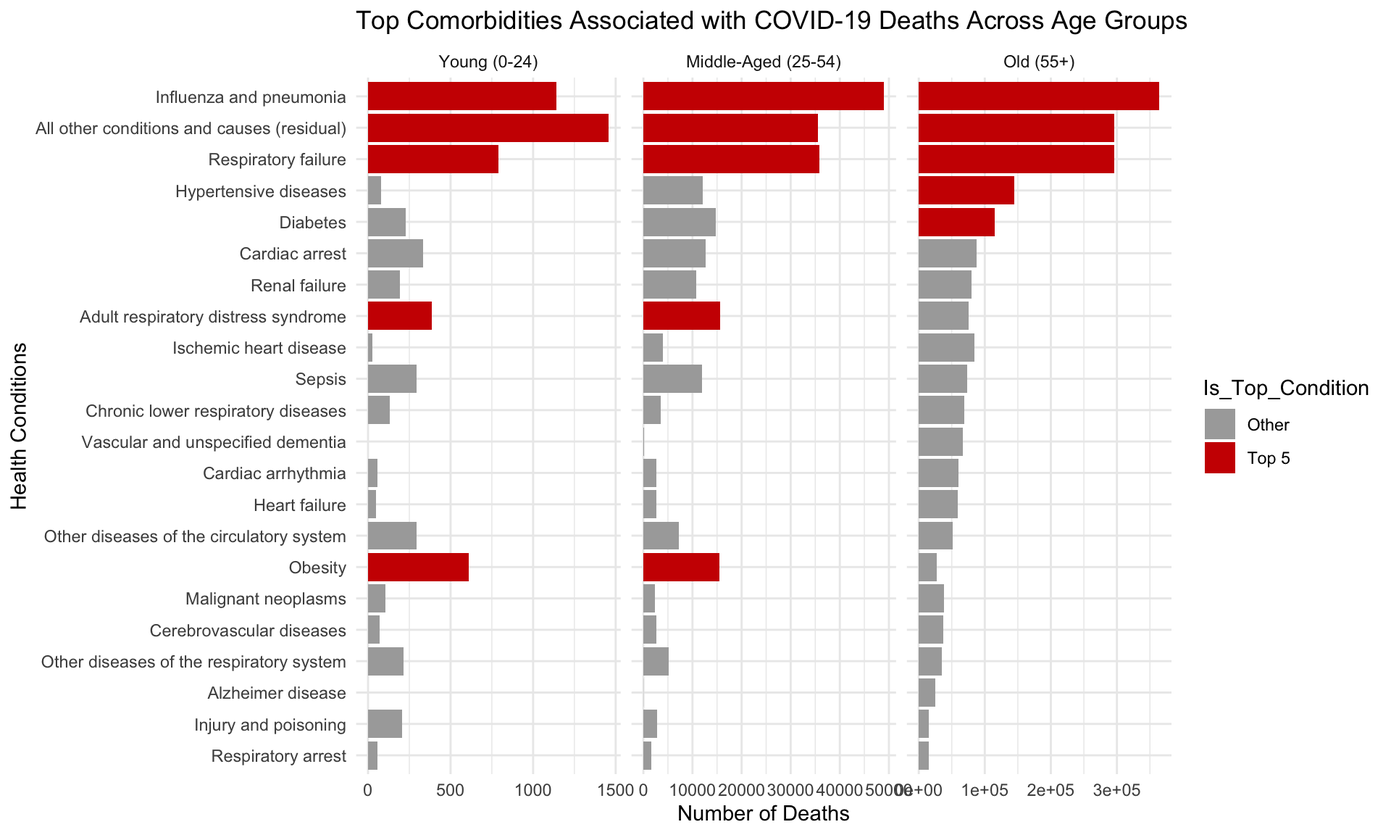
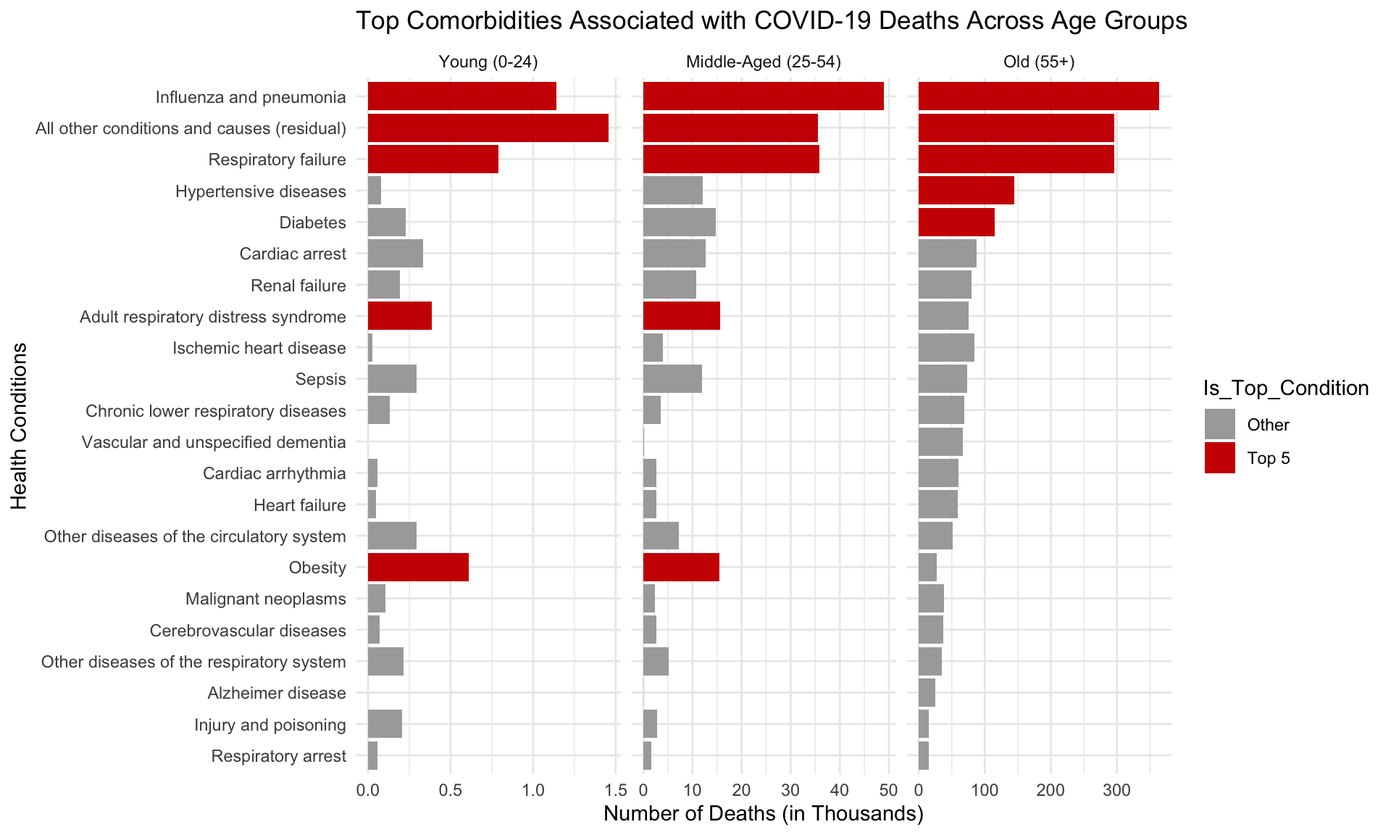
asdf

diff --git a/docs/results.html b/docs/results.html
@@ -459,16 +459,16 @@ pre > code.sourceCode > span > a:first-child::before { text-decoration: underlin
 <span id="cb5-44"><a href="#cb5-44" aria-hidden="true" tabindex="-1"></a>fig_20</span></code><button title="Copy to Clipboard" class="code-copy-button"><i class="bi"></i></button></pre></div>
 </details>
 <div class="cell-output-display">
-<div class="plotly html-widget html-fill-item-overflow-hidden html-fill-item" id="htmlwidget-2ba007ea91bc8748deae" style="width:100%;height:464px;"></div>
-<script type="application/json" data-for="htmlwidget-2ba007ea91bc8748deae">{"x":{"visdat":{"803a2c4fc2ec":["function () ","plotlyVisDat"]},"cur_data":"803a2c4fc2ec","attrs":{"803a2c4fc2ec":{"locationmode":"USA-states","alpha_stroke":1,"sizes":[10,100],"spans":[1,20],"z":{},"locations":{},"text":{},"color":{},"colors":"Purples","zmin":20,"zmax":230,"inherit":true}},"layout":{"margin":{"b":5,"l":5,"t":40,"r":5,"pad":4},"mapType":"geo","scene":{"zaxis":{"title":"death_rate"}},"geo":{"domain":{"x":[0,1],"y":[0,1]},"scope":"usa","projection":{"type":"albers usa"},"showlakes":true,"lakecolor":"rgba(255,255,255,1)"},"hovermode":"closest","showlegend":false,"legend":{"yanchor":"top","y":0.5},"title":"2020 US COVID-19 Death Rate","autosize":true},"source":"A","config":{"modeBarButtonsToAdd":["hoverclosest","hovercompare"],"showSendToCloud":false},"data":[{"colorbar":{"title":"death rate <br> (per 100,000 population)","ticklen":2,"len":0.5,"lenmode":"fraction","y":1,"yanchor":"top"},"colorscale":[["0","rgba(252,251,253,1)"],["0.0416666666666667","rgba(248,246,250,1)"],["0.0833333333333333","rgba(243,242,248,1)"],["0.125","rgba(239,237,245,1)"],["0.166666666666667","rgba(232,231,242,1)"],["0.208333333333333","rgba(225,224,238,1)"],["0.25","rgba(218,218,235,1)"],["0.291666666666667","rgba(208,208,230,1)"],["0.333333333333333","rgba(198,199,225,1)"],["0.375","rgba(188,189,220,1)"],["0.416666666666667","rgba(178,177,213,1)"],["0.458333333333333","rgba(168,166,207,1)"],["0.5","rgba(158,154,200,1)"],["0.541666666666667","rgba(148,144,195,1)"],["0.583333333333333","rgba(138,135,191,1)"],["0.625","rgba(128,125,186,1)"],["0.666666666666667","rgba(121,110,178,1)"],["0.708333333333333","rgba(114,96,171,1)"],["0.75","rgba(106,81,163,1)"],["0.791666666666667","rgba(99,67,156,1)"],["0.833333333333333","rgba(92,54,150,1)"],["0.875","rgba(84,39,143,1)"],["0.916666666666667","rgba(77,28,137,1)"],["0.958333333333333","rgba(70,16,131,1)"],["1","rgba(63,0,125,1)"]],"showscale":true,"locationmode":"USA-states","z":[133.30000000000001,35.299999999999997,129.80000000000001,133.59999999999999,84.799999999999997,87.700000000000003,174.90000000000001,110,150,101.09999999999999,97.299999999999997,25.399999999999999,83.700000000000003,130.80000000000001,144,149.5,119.09999999999999,102.59999999999999,151.90000000000001,34.100000000000001,109,145.59999999999999,122.09999999999999,102.2,173.09999999999999,131,116.5,114.8,113.09999999999999,60.899999999999999,195.69999999999999,135.90000000000001,191,84.099999999999994,194,128,132.40000000000001,37.899999999999999,141.69999999999999,175.09999999999999,111,193.5,114.5,114.7,50.399999999999999,23.300000000000001,71.200000000000003,47.899999999999999,87.400000000000006,106.5,79.5],"locations":["AL","AK","AZ","AR","CA","CO","CT","DE","DC","FL","GA","HI","ID","IL","IN","IA","KS","KY","LA","ME","MD","MA","MI","MN","MS","MO","MT","NE","NV","NH","NJ","NM","NY","NC","ND","OH","OK","OR","PA","RI","SC","SD","TN","TX","UT","VT","VA","WA","WV","WI","WY"],"text":["Alabama <br> Death Rate: 133.3 <br> Death Count: 6706","Alaska <br> Death Rate: 35.3 <br> Death Count: 259","Arizona <br> Death Rate: 129.8 <br> Death Count: 9321","Arkansas <br> Death Rate: 133.6 <br> Death Count: 4028","California <br> Death Rate: 84.8 <br> Death Count: 33485","Colorado <br> Death Rate: 87.7 <br> Death Count: 5073","Connecticut <br> Death Rate: 174.9 <br> Death Count: 6292","Delaware <br> Death Rate: 110 <br> Death Count: 1091","District of Columbia <br> Death Rate: 150 <br> Death Count: 1006","Florida <br> Death Rate: 101.1 <br> Death Count: 21827","Georgia <br> Death Rate: 97.3 <br> Death Count: 10435","Hawaii <br> Death Rate: 25.4 <br> Death Count: 369","Idaho <br> Death Rate: 83.7 <br> Death Count: 1547","Illinois <br> Death Rate: 130.8 <br> Death Count: 16721","Indiana <br> Death Rate: 144 <br> Death Count: 9775","Iowa <br> Death Rate: 149.5 <br> Death Count: 4770","Kansas <br> Death Rate: 119.1 <br> Death Count: 3500","Kentucky <br> Death Rate: 102.6 <br> Death Count: 4623","Louisiana <br> Death Rate: 151.9 <br> Death Count: 7066","Maine <br> Death Rate: 34.1 <br> Death Count: 465","Maryland <br> Death Rate: 109 <br> Death Count: 6729","Massachusetts <br> Death Rate: 145.6 <br> Death Count: 10184","Michigan <br> Death Rate: 122.1 <br> Death Count: 12290","Minnesota <br> Death Rate: 102.2 <br> Death Count: 5833","Mississippi <br> Death Rate: 173.1 <br> Death Count: 5120","Missouri <br> Death Rate: 131 <br> Death Count: 8059","Montana <br> Death Rate: 116.5 <br> Death Count: 1266","Nebraska <br> Death Rate: 114.8 <br> Death Count: 2254","Nevada <br> Death Rate: 113.1 <br> Death Count: 3523","New Hampshire <br> Death Rate: 60.9 <br> Death Count: 839","New Jersey <br> Death Rate: 195.7 <br> Death Count: 18143","New Mexico <br> Death Rate: 135.9 <br> Death Count: 2879","New York <br> Death Rate: 191 <br> Death Count: 38402","North Carolina <br> Death Rate: 84.1 <br> Death Count: 8784","North Dakota <br> Death Rate: 194 <br> Death Count: 1512","Ohio <br> Death Rate: 128 <br> Death Count: 15097","Oklahoma <br> Death Rate: 132.4 <br> Death Count: 5248","Oregon <br> Death Rate: 37.9 <br> Death Count: 1608","Pennsylvania <br> Death Rate: 141.7 <br> Death Count: 18407","Rhode Island <br> Death Rate: 175.1 <br> Death Count: 1920","South Carolina <br> Death Rate: 111 <br> Death Count: 5697","South Dakota <br> Death Rate: 193.5 <br> Death Count: 1718","Tennessee <br> Death Rate: 114.5 <br> Death Count: 7927","Texas <br> Death Rate: 114.7 <br> Death Count: 33535","Utah <br> Death Rate: 50.4 <br> Death Count: 1656","Vermont <br> Death Rate: 23.3 <br> Death Count: 150","Virginia <br> Death Rate: 71.2 <br> Death Count: 6152","Washington <br> Death Rate: 47.9 <br> Death Count: 3701","West Virginia <br> Death Rate: 87.4 <br> Death Count: 1565","Wisconsin <br> Death Rate: 106.5 <br> Death Count: 6282","Wyoming <br> Death Rate: 79.5 <br> Death Count: 459"],"zmin":20,"zmax":230,"type":"choropleth","marker":{"line":{"colorbar":{"title":"","ticklen":2},"cmin":23.300000000000001,"cmax":195.69999999999999,"colorscale":[["0","rgba(252,251,253,1)"],["0.0416666666666667","rgba(248,246,250,1)"],["0.0833333333333333","rgba(243,242,248,1)"],["0.125","rgba(239,237,245,1)"],["0.166666666666667","rgba(232,231,242,1)"],["0.208333333333333","rgba(225,224,238,1)"],["0.25","rgba(218,218,235,1)"],["0.291666666666667","rgba(208,208,230,1)"],["0.333333333333333","rgba(198,199,225,1)"],["0.375","rgba(188,189,220,1)"],["0.416666666666667","rgba(178,177,213,1)"],["0.458333333333333","rgba(168,166,207,1)"],["0.5","rgba(158,154,200,1)"],["0.541666666666667","rgba(148,144,195,1)"],["0.583333333333333","rgba(138,135,191,1)"],["0.625","rgba(128,125,186,1)"],["0.666666666666667","rgba(121,110,178,1)"],["0.708333333333333","rgba(114,96,171,1)"],["0.75","rgba(106,81,163,1)"],["0.791666666666667","rgba(99,67,156,1)"],["0.833333333333333","rgba(92,54,150,1)"],["0.875","rgba(84,39,143,1)"],["0.916666666666667","rgba(77,28,137,1)"],["0.958333333333333","rgba(70,16,131,1)"],["1","rgba(63,0,125,1)"]],"showscale":false,"color":[133.30000000000001,35.299999999999997,129.80000000000001,133.59999999999999,84.799999999999997,87.700000000000003,174.90000000000001,110,150,101.09999999999999,97.299999999999997,25.399999999999999,83.700000000000003,130.80000000000001,144,149.5,119.09999999999999,102.59999999999999,151.90000000000001,34.100000000000001,109,145.59999999999999,122.09999999999999,102.2,173.09999999999999,131,116.5,114.8,113.09999999999999,60.899999999999999,195.69999999999999,135.90000000000001,191,84.099999999999994,194,128,132.40000000000001,37.899999999999999,141.69999999999999,175.09999999999999,111,193.5,114.5,114.7,50.399999999999999,23.300000000000001,71.200000000000003,47.899999999999999,87.400000000000006,106.5,79.5]}},"geo":"geo","frame":null}],"highlight":{"on":"plotly_click","persistent":false,"dynamic":false,"selectize":false,"opacityDim":0.20000000000000001,"selected":{"opacity":1},"debounce":0},"shinyEvents":["plotly_hover","plotly_click","plotly_selected","plotly_relayout","plotly_brushed","plotly_brushing","plotly_clickannotation","plotly_doubleclick","plotly_deselect","plotly_afterplot","plotly_sunburstclick"],"base_url":"https://plot.ly"},"evals":[],"jsHooks":[]}</script>
+<div class="plotly html-widget html-fill-item-overflow-hidden html-fill-item" id="htmlwidget-a630166b2041cebd75d2" style="width:100%;height:464px;"></div>
+<script type="application/json" data-for="htmlwidget-a630166b2041cebd75d2">{"x":{"visdat":{"8f0f272b129a":["function () ","plotlyVisDat"]},"cur_data":"8f0f272b129a","attrs":{"8f0f272b129a":{"locationmode":"USA-states","alpha_stroke":1,"sizes":[10,100],"spans":[1,20],"z":{},"locations":{},"text":{},"color":{},"colors":"Purples","zmin":20,"zmax":230,"inherit":true}},"layout":{"margin":{"b":5,"l":5,"t":40,"r":5,"pad":4},"mapType":"geo","scene":{"zaxis":{"title":"death_rate"}},"geo":{"domain":{"x":[0,1],"y":[0,1]},"scope":"usa","projection":{"type":"albers usa"},"showlakes":true,"lakecolor":"rgba(255,255,255,1)"},"hovermode":"closest","showlegend":false,"legend":{"yanchor":"top","y":0.5},"title":"2020 US COVID-19 Death Rate","autosize":true},"source":"A","config":{"modeBarButtonsToAdd":["hoverclosest","hovercompare"],"showSendToCloud":false},"data":[{"colorbar":{"title":"death rate <br> (per 100,000 population)","ticklen":2,"len":0.5,"lenmode":"fraction","y":1,"yanchor":"top"},"colorscale":[["0","rgba(252,251,253,1)"],["0.0416666666666667","rgba(248,246,250,1)"],["0.0833333333333333","rgba(243,242,248,1)"],["0.125","rgba(239,237,245,1)"],["0.166666666666667","rgba(232,231,242,1)"],["0.208333333333333","rgba(225,224,238,1)"],["0.25","rgba(218,218,235,1)"],["0.291666666666667","rgba(208,208,230,1)"],["0.333333333333333","rgba(198,199,225,1)"],["0.375","rgba(188,189,220,1)"],["0.416666666666667","rgba(178,177,213,1)"],["0.458333333333333","rgba(168,166,207,1)"],["0.5","rgba(158,154,200,1)"],["0.541666666666667","rgba(148,144,195,1)"],["0.583333333333333","rgba(138,135,191,1)"],["0.625","rgba(128,125,186,1)"],["0.666666666666667","rgba(121,110,178,1)"],["0.708333333333333","rgba(114,96,171,1)"],["0.75","rgba(106,81,163,1)"],["0.791666666666667","rgba(99,67,156,1)"],["0.833333333333333","rgba(92,54,150,1)"],["0.875","rgba(84,39,143,1)"],["0.916666666666667","rgba(77,28,137,1)"],["0.958333333333333","rgba(70,16,131,1)"],["1","rgba(63,0,125,1)"]],"showscale":true,"locationmode":"USA-states","z":[133.30000000000001,35.299999999999997,129.80000000000001,133.59999999999999,84.799999999999997,87.700000000000003,174.90000000000001,110,150,101.09999999999999,97.299999999999997,25.399999999999999,83.700000000000003,130.80000000000001,144,149.5,119.09999999999999,102.59999999999999,151.90000000000001,34.100000000000001,109,145.59999999999999,122.09999999999999,102.2,173.09999999999999,131,116.5,114.8,113.09999999999999,60.899999999999999,195.69999999999999,135.90000000000001,191,84.099999999999994,194,128,132.40000000000001,37.899999999999999,141.69999999999999,175.09999999999999,111,193.5,114.5,114.7,50.399999999999999,23.300000000000001,71.200000000000003,47.899999999999999,87.400000000000006,106.5,79.5],"locations":["AL","AK","AZ","AR","CA","CO","CT","DE","DC","FL","GA","HI","ID","IL","IN","IA","KS","KY","LA","ME","MD","MA","MI","MN","MS","MO","MT","NE","NV","NH","NJ","NM","NY","NC","ND","OH","OK","OR","PA","RI","SC","SD","TN","TX","UT","VT","VA","WA","WV","WI","WY"],"text":["Alabama <br> Death Rate: 133.3 <br> Death Count: 6706","Alaska <br> Death Rate: 35.3 <br> Death Count: 259","Arizona <br> Death Rate: 129.8 <br> Death Count: 9321","Arkansas <br> Death Rate: 133.6 <br> Death Count: 4028","California <br> Death Rate: 84.8 <br> Death Count: 33485","Colorado <br> Death Rate: 87.7 <br> Death Count: 5073","Connecticut <br> Death Rate: 174.9 <br> Death Count: 6292","Delaware <br> Death Rate: 110 <br> Death Count: 1091","District of Columbia <br> Death Rate: 150 <br> Death Count: 1006","Florida <br> Death Rate: 101.1 <br> Death Count: 21827","Georgia <br> Death Rate: 97.3 <br> Death Count: 10435","Hawaii <br> Death Rate: 25.4 <br> Death Count: 369","Idaho <br> Death Rate: 83.7 <br> Death Count: 1547","Illinois <br> Death Rate: 130.8 <br> Death Count: 16721","Indiana <br> Death Rate: 144 <br> Death Count: 9775","Iowa <br> Death Rate: 149.5 <br> Death Count: 4770","Kansas <br> Death Rate: 119.1 <br> Death Count: 3500","Kentucky <br> Death Rate: 102.6 <br> Death Count: 4623","Louisiana <br> Death Rate: 151.9 <br> Death Count: 7066","Maine <br> Death Rate: 34.1 <br> Death Count: 465","Maryland <br> Death Rate: 109 <br> Death Count: 6729","Massachusetts <br> Death Rate: 145.6 <br> Death Count: 10184","Michigan <br> Death Rate: 122.1 <br> Death Count: 12290","Minnesota <br> Death Rate: 102.2 <br> Death Count: 5833","Mississippi <br> Death Rate: 173.1 <br> Death Count: 5120","Missouri <br> Death Rate: 131 <br> Death Count: 8059","Montana <br> Death Rate: 116.5 <br> Death Count: 1266","Nebraska <br> Death Rate: 114.8 <br> Death Count: 2254","Nevada <br> Death Rate: 113.1 <br> Death Count: 3523","New Hampshire <br> Death Rate: 60.9 <br> Death Count: 839","New Jersey <br> Death Rate: 195.7 <br> Death Count: 18143","New Mexico <br> Death Rate: 135.9 <br> Death Count: 2879","New York <br> Death Rate: 191 <br> Death Count: 38402","North Carolina <br> Death Rate: 84.1 <br> Death Count: 8784","North Dakota <br> Death Rate: 194 <br> Death Count: 1512","Ohio <br> Death Rate: 128 <br> Death Count: 15097","Oklahoma <br> Death Rate: 132.4 <br> Death Count: 5248","Oregon <br> Death Rate: 37.9 <br> Death Count: 1608","Pennsylvania <br> Death Rate: 141.7 <br> Death Count: 18407","Rhode Island <br> Death Rate: 175.1 <br> Death Count: 1920","South Carolina <br> Death Rate: 111 <br> Death Count: 5697","South Dakota <br> Death Rate: 193.5 <br> Death Count: 1718","Tennessee <br> Death Rate: 114.5 <br> Death Count: 7927","Texas <br> Death Rate: 114.7 <br> Death Count: 33535","Utah <br> Death Rate: 50.4 <br> Death Count: 1656","Vermont <br> Death Rate: 23.3 <br> Death Count: 150","Virginia <br> Death Rate: 71.2 <br> Death Count: 6152","Washington <br> Death Rate: 47.9 <br> Death Count: 3701","West Virginia <br> Death Rate: 87.4 <br> Death Count: 1565","Wisconsin <br> Death Rate: 106.5 <br> Death Count: 6282","Wyoming <br> Death Rate: 79.5 <br> Death Count: 459"],"zmin":20,"zmax":230,"type":"choropleth","marker":{"line":{"colorbar":{"title":"","ticklen":2},"cmin":23.300000000000001,"cmax":195.69999999999999,"colorscale":[["0","rgba(252,251,253,1)"],["0.0416666666666667","rgba(248,246,250,1)"],["0.0833333333333333","rgba(243,242,248,1)"],["0.125","rgba(239,237,245,1)"],["0.166666666666667","rgba(232,231,242,1)"],["0.208333333333333","rgba(225,224,238,1)"],["0.25","rgba(218,218,235,1)"],["0.291666666666667","rgba(208,208,230,1)"],["0.333333333333333","rgba(198,199,225,1)"],["0.375","rgba(188,189,220,1)"],["0.416666666666667","rgba(178,177,213,1)"],["0.458333333333333","rgba(168,166,207,1)"],["0.5","rgba(158,154,200,1)"],["0.541666666666667","rgba(148,144,195,1)"],["0.583333333333333","rgba(138,135,191,1)"],["0.625","rgba(128,125,186,1)"],["0.666666666666667","rgba(121,110,178,1)"],["0.708333333333333","rgba(114,96,171,1)"],["0.75","rgba(106,81,163,1)"],["0.791666666666667","rgba(99,67,156,1)"],["0.833333333333333","rgba(92,54,150,1)"],["0.875","rgba(84,39,143,1)"],["0.916666666666667","rgba(77,28,137,1)"],["0.958333333333333","rgba(70,16,131,1)"],["1","rgba(63,0,125,1)"]],"showscale":false,"color":[133.30000000000001,35.299999999999997,129.80000000000001,133.59999999999999,84.799999999999997,87.700000000000003,174.90000000000001,110,150,101.09999999999999,97.299999999999997,25.399999999999999,83.700000000000003,130.80000000000001,144,149.5,119.09999999999999,102.59999999999999,151.90000000000001,34.100000000000001,109,145.59999999999999,122.09999999999999,102.2,173.09999999999999,131,116.5,114.8,113.09999999999999,60.899999999999999,195.69999999999999,135.90000000000001,191,84.099999999999994,194,128,132.40000000000001,37.899999999999999,141.69999999999999,175.09999999999999,111,193.5,114.5,114.7,50.399999999999999,23.300000000000001,71.200000000000003,47.899999999999999,87.400000000000006,106.5,79.5]}},"geo":"geo","frame":null}],"highlight":{"on":"plotly_click","persistent":false,"dynamic":false,"selectize":false,"opacityDim":0.20000000000000001,"selected":{"opacity":1},"debounce":0},"shinyEvents":["plotly_hover","plotly_click","plotly_selected","plotly_relayout","plotly_brushed","plotly_brushing","plotly_clickannotation","plotly_doubleclick","plotly_deselect","plotly_afterplot","plotly_sunburstclick"],"base_url":"https://plot.ly"},"evals":[],"jsHooks":[]}</script>
 </div>
 <details>
 <summary>Code</summary>
 <div class="sourceCode cell-code" id="cb6"><pre class="sourceCode r code-with-copy"><code class="sourceCode r"><span id="cb6-1"><a href="#cb6-1" aria-hidden="true" tabindex="-1"></a>fig_21</span></code><button title="Copy to Clipboard" class="code-copy-button"><i class="bi"></i></button></pre></div>
 </details>
 <div class="cell-output-display">
-<div class="plotly html-widget html-fill-item-overflow-hidden html-fill-item" id="htmlwidget-fb7d7247f30418d3d8fd" style="width:100%;height:464px;"></div>
-<script type="application/json" data-for="htmlwidget-fb7d7247f30418d3d8fd">{"x":{"visdat":{"803a28862aae":["function () ","plotlyVisDat"]},"cur_data":"803a28862aae","attrs":{"803a28862aae":{"locationmode":"USA-states","alpha_stroke":1,"sizes":[10,100],"spans":[1,20],"z":{},"locations":{},"text":{},"color":{},"colors":"Purples","zmin":20,"zmax":230,"inherit":true}},"layout":{"margin":{"b":5,"l":5,"t":40,"r":5,"pad":4},"mapType":"geo","scene":{"zaxis":{"title":"death_rate"}},"geo":{"domain":{"x":[0,1],"y":[0,1]},"scope":"usa","projection":{"type":"albers usa"},"showlakes":true,"lakecolor":"rgba(255,255,255,1)"},"hovermode":"closest","showlegend":false,"legend":{"yanchor":"top","y":0.5},"title":"2021 US COVID-19 Death Rate","autosize":true},"source":"A","config":{"modeBarButtonsToAdd":["hoverclosest","hovercompare"],"showSendToCloud":false},"data":[{"colorbar":{"title":"death rate  <br> (per 100,000 population)","ticklen":2,"len":0.5,"lenmode":"fraction","y":1,"yanchor":"top"},"colorscale":[["0","rgba(252,251,253,1)"],["0.0416666666666667","rgba(248,246,250,1)"],["0.0833333333333333","rgba(243,242,248,1)"],["0.125","rgba(239,237,245,1)"],["0.166666666666667","rgba(232,231,242,1)"],["0.208333333333333","rgba(225,224,238,1)"],["0.25","rgba(218,218,235,1)"],["0.291666666666667","rgba(208,208,230,1)"],["0.333333333333333","rgba(198,199,225,1)"],["0.375","rgba(188,189,220,1)"],["0.416666666666667","rgba(178,177,213,1)"],["0.458333333333333","rgba(168,166,207,1)"],["0.5","rgba(158,154,200,1)"],["0.541666666666667","rgba(148,144,195,1)"],["0.583333333333333","rgba(138,135,191,1)"],["0.625","rgba(128,125,186,1)"],["0.666666666666667","rgba(121,110,178,1)"],["0.708333333333333","rgba(114,96,171,1)"],["0.75","rgba(106,81,163,1)"],["0.791666666666667","rgba(99,67,156,1)"],["0.833333333333333","rgba(92,54,150,1)"],["0.875","rgba(84,39,143,1)"],["0.916666666666667","rgba(77,28,137,1)"],["0.958333333333333","rgba(70,16,131,1)"],["1","rgba(63,0,125,1)"]],"showscale":true,"locationmode":"USA-states","z":[192.5,114.40000000000001,193.5,176.19999999999999,123.5,106.8,87,125.90000000000001,105.7,178.09999999999999,160.5,51.399999999999999,146,92.900000000000006,147.59999999999999,110.3,129.5,193,149.5,104.2,98.799999999999997,79.799999999999997,148.90000000000001,90.700000000000003,200.30000000000001,145,164.19999999999999,98.700000000000003,179.40000000000001,87.099999999999994,103.59999999999999,175,120.2,144.19999999999999,120.40000000000001,174.59999999999999,196.69999999999999,98.400000000000006,157.90000000000001,111,182.90000000000001,110.09999999999999,196.69999999999999,165.09999999999999,80,48.5,111.7,79.599999999999994,220.40000000000001,103.3,166.19999999999999],"locations":["AL","AK","AZ","AR","CA","CO","CT","DE","DC","FL","GA","HI","ID","IL","IN","IA","KS","KY","LA","ME","MD","MA","MI","MN","MS","MO","MT","NE","NV","NH","NJ","NM","NY","NC","ND","OH","OK","OR","PA","RI","SC","SD","TN","TX","UT","VT","VA","WA","WV","WI","WY"],"text":["Alabama <br> Death Rate: 192.5 <br> Death Count: 9719","Alaska <br> Death Rate: 114.4 <br> Death Count: 840","Arizona <br> Death Rate: 193.5 <br> Death Count: 14060","Arkansas <br> Death Rate: 176.2 <br> Death Count: 5336","California <br> Death Rate: 123.5 <br> Death Count: 48331","Colorado <br> Death Rate: 106.8 <br> Death Count: 6207","Connecticut <br> Death Rate: 87 <br> Death Count: 3153","Delaware <br> Death Rate: 125.9 <br> Death Count: 1265","District of Columbia <br> Death Rate: 105.7 <br> Death Count: 707","Florida <br> Death Rate: 178.1 <br> Death Count: 38873","Georgia <br> Death Rate: 160.5 <br> Death Count: 17310","Hawaii <br> Death Rate: 51.4 <br> Death Count: 744","Idaho <br> Death Rate: 146 <br> Death Count: 2781","Illinois <br> Death Rate: 92.9 <br> Death Count: 11787","Indiana <br> Death Rate: 147.6 <br> Death Count: 10056","Iowa <br> Death Rate: 110.3 <br> Death Count: 3526","Kansas <br> Death Rate: 129.5 <br> Death Count: 3806","Kentucky <br> Death Rate: 193 <br> Death Count: 8696","Louisiana <br> Death Rate: 149.5 <br> Death Count: 6919","Maine <br> Death Rate: 104.2 <br> Death Count: 1435","Maryland <br> Death Rate: 98.8 <br> Death Count: 6101","Massachusetts <br> Death Rate: 79.8 <br> Death Count: 5579","Michigan <br> Death Rate: 148.9 <br> Death Count: 14945","Minnesota <br> Death Rate: 90.7 <br> Death Count: 5181","Mississippi <br> Death Rate: 200.3 <br> Death Count: 5907","Missouri <br> Death Rate: 145 <br> Death Count: 8945","Montana <br> Death Rate: 164.2 <br> Death Count: 1816","Nebraska <br> Death Rate: 98.7 <br> Death Count: 1939","Nevada <br> Death Rate: 179.4 <br> Death Count: 5645","New Hampshire <br> Death Rate: 87.1 <br> Death Count: 1208","New Jersey <br> Death Rate: 103.6 <br> Death Count: 9605","New Mexico <br> Death Rate: 175 <br> Death Count: 3705","New York <br> Death Rate: 120.2 <br> Death Count: 23860","North Carolina <br> Death Rate: 144.2 <br> Death Count: 15234","North Dakota <br> Death Rate: 120.4 <br> Death Count: 937","Ohio <br> Death Rate: 174.6 <br> Death Count: 20536","Oklahoma <br> Death Rate: 196.7 <br> Death Count: 7850","Oregon <br> Death Rate: 98.4 <br> Death Count: 4190","Pennsylvania <br> Death Rate: 157.9 <br> Death Count: 20546","Rhode Island <br> Death Rate: 111 <br> Death Count: 1218","South Carolina <br> Death Rate: 182.9 <br> Death Count: 9497","South Dakota <br> Death Rate: 110.1 <br> Death Count: 987","Tennessee <br> Death Rate: 196.7 <br> Death Count: 13705","Texas <br> Death Rate: 165.1 <br> Death Count: 48787","Utah <br> Death Rate: 80 <br> Death Count: 2671","Vermont <br> Death Rate: 48.5 <br> Death Count: 314","Virginia <br> Death Rate: 111.7 <br> Death Count: 9668","Washington <br> Death Rate: 79.6 <br> Death Count: 6165","West Virginia <br> Death Rate: 220.4 <br> Death Count: 3936","Wisconsin <br> Death Rate: 103.3 <br> Death Count: 6076","Wyoming <br> Death Rate: 166.2 <br> Death Count: 963"],"zmin":20,"zmax":230,"type":"choropleth","marker":{"line":{"colorbar":{"title":"","ticklen":2},"cmin":48.5,"cmax":220.40000000000001,"colorscale":[["0","rgba(252,251,253,1)"],["0.0416666666666667","rgba(248,246,250,1)"],["0.0833333333333333","rgba(243,242,248,1)"],["0.125","rgba(239,237,245,1)"],["0.166666666666667","rgba(232,231,242,1)"],["0.208333333333333","rgba(225,224,238,1)"],["0.25","rgba(218,218,235,1)"],["0.291666666666667","rgba(208,208,230,1)"],["0.333333333333333","rgba(198,199,225,1)"],["0.375","rgba(188,189,220,1)"],["0.416666666666667","rgba(178,177,213,1)"],["0.458333333333333","rgba(168,166,207,1)"],["0.5","rgba(158,154,200,1)"],["0.541666666666667","rgba(148,144,195,1)"],["0.583333333333333","rgba(138,135,191,1)"],["0.625","rgba(128,125,186,1)"],["0.666666666666667","rgba(121,110,178,1)"],["0.708333333333333","rgba(114,96,171,1)"],["0.75","rgba(106,81,163,1)"],["0.791666666666667","rgba(99,67,156,1)"],["0.833333333333333","rgba(92,54,150,1)"],["0.875","rgba(84,39,143,1)"],["0.916666666666667","rgba(77,28,137,1)"],["0.958333333333333","rgba(70,16,131,1)"],["1","rgba(63,0,125,1)"]],"showscale":false,"color":[192.5,114.40000000000001,193.5,176.19999999999999,123.5,106.8,87,125.90000000000001,105.7,178.09999999999999,160.5,51.399999999999999,146,92.900000000000006,147.59999999999999,110.3,129.5,193,149.5,104.2,98.799999999999997,79.799999999999997,148.90000000000001,90.700000000000003,200.30000000000001,145,164.19999999999999,98.700000000000003,179.40000000000001,87.099999999999994,103.59999999999999,175,120.2,144.19999999999999,120.40000000000001,174.59999999999999,196.69999999999999,98.400000000000006,157.90000000000001,111,182.90000000000001,110.09999999999999,196.69999999999999,165.09999999999999,80,48.5,111.7,79.599999999999994,220.40000000000001,103.3,166.19999999999999]}},"geo":"geo","frame":null}],"highlight":{"on":"plotly_click","persistent":false,"dynamic":false,"selectize":false,"opacityDim":0.20000000000000001,"selected":{"opacity":1},"debounce":0},"shinyEvents":["plotly_hover","plotly_click","plotly_selected","plotly_relayout","plotly_brushed","plotly_brushing","plotly_clickannotation","plotly_doubleclick","plotly_deselect","plotly_afterplot","plotly_sunburstclick"],"base_url":"https://plot.ly"},"evals":[],"jsHooks":[]}</script>
+<div class="plotly html-widget html-fill-item-overflow-hidden html-fill-item" id="htmlwidget-2467a0cad8a326160db9" style="width:100%;height:464px;"></div>
+<script type="application/json" data-for="htmlwidget-2467a0cad8a326160db9">{"x":{"visdat":{"8f0f7cd2508c":["function () ","plotlyVisDat"]},"cur_data":"8f0f7cd2508c","attrs":{"8f0f7cd2508c":{"locationmode":"USA-states","alpha_stroke":1,"sizes":[10,100],"spans":[1,20],"z":{},"locations":{},"text":{},"color":{},"colors":"Purples","zmin":20,"zmax":230,"inherit":true}},"layout":{"margin":{"b":5,"l":5,"t":40,"r":5,"pad":4},"mapType":"geo","scene":{"zaxis":{"title":"death_rate"}},"geo":{"domain":{"x":[0,1],"y":[0,1]},"scope":"usa","projection":{"type":"albers usa"},"showlakes":true,"lakecolor":"rgba(255,255,255,1)"},"hovermode":"closest","showlegend":false,"legend":{"yanchor":"top","y":0.5},"title":"2021 US COVID-19 Death Rate","autosize":true},"source":"A","config":{"modeBarButtonsToAdd":["hoverclosest","hovercompare"],"showSendToCloud":false},"data":[{"colorbar":{"title":"death rate  <br> (per 100,000 population)","ticklen":2,"len":0.5,"lenmode":"fraction","y":1,"yanchor":"top"},"colorscale":[["0","rgba(252,251,253,1)"],["0.0416666666666667","rgba(248,246,250,1)"],["0.0833333333333333","rgba(243,242,248,1)"],["0.125","rgba(239,237,245,1)"],["0.166666666666667","rgba(232,231,242,1)"],["0.208333333333333","rgba(225,224,238,1)"],["0.25","rgba(218,218,235,1)"],["0.291666666666667","rgba(208,208,230,1)"],["0.333333333333333","rgba(198,199,225,1)"],["0.375","rgba(188,189,220,1)"],["0.416666666666667","rgba(178,177,213,1)"],["0.458333333333333","rgba(168,166,207,1)"],["0.5","rgba(158,154,200,1)"],["0.541666666666667","rgba(148,144,195,1)"],["0.583333333333333","rgba(138,135,191,1)"],["0.625","rgba(128,125,186,1)"],["0.666666666666667","rgba(121,110,178,1)"],["0.708333333333333","rgba(114,96,171,1)"],["0.75","rgba(106,81,163,1)"],["0.791666666666667","rgba(99,67,156,1)"],["0.833333333333333","rgba(92,54,150,1)"],["0.875","rgba(84,39,143,1)"],["0.916666666666667","rgba(77,28,137,1)"],["0.958333333333333","rgba(70,16,131,1)"],["1","rgba(63,0,125,1)"]],"showscale":true,"locationmode":"USA-states","z":[192.5,114.40000000000001,193.5,176.19999999999999,123.5,106.8,87,125.90000000000001,105.7,178.09999999999999,160.5,51.399999999999999,146,92.900000000000006,147.59999999999999,110.3,129.5,193,149.5,104.2,98.799999999999997,79.799999999999997,148.90000000000001,90.700000000000003,200.30000000000001,145,164.19999999999999,98.700000000000003,179.40000000000001,87.099999999999994,103.59999999999999,175,120.2,144.19999999999999,120.40000000000001,174.59999999999999,196.69999999999999,98.400000000000006,157.90000000000001,111,182.90000000000001,110.09999999999999,196.69999999999999,165.09999999999999,80,48.5,111.7,79.599999999999994,220.40000000000001,103.3,166.19999999999999],"locations":["AL","AK","AZ","AR","CA","CO","CT","DE","DC","FL","GA","HI","ID","IL","IN","IA","KS","KY","LA","ME","MD","MA","MI","MN","MS","MO","MT","NE","NV","NH","NJ","NM","NY","NC","ND","OH","OK","OR","PA","RI","SC","SD","TN","TX","UT","VT","VA","WA","WV","WI","WY"],"text":["Alabama <br> Death Rate: 192.5 <br> Death Count: 9719","Alaska <br> Death Rate: 114.4 <br> Death Count: 840","Arizona <br> Death Rate: 193.5 <br> Death Count: 14060","Arkansas <br> Death Rate: 176.2 <br> Death Count: 5336","California <br> Death Rate: 123.5 <br> Death Count: 48331","Colorado <br> Death Rate: 106.8 <br> Death Count: 6207","Connecticut <br> Death Rate: 87 <br> Death Count: 3153","Delaware <br> Death Rate: 125.9 <br> Death Count: 1265","District of Columbia <br> Death Rate: 105.7 <br> Death Count: 707","Florida <br> Death Rate: 178.1 <br> Death Count: 38873","Georgia <br> Death Rate: 160.5 <br> Death Count: 17310","Hawaii <br> Death Rate: 51.4 <br> Death Count: 744","Idaho <br> Death Rate: 146 <br> Death Count: 2781","Illinois <br> Death Rate: 92.9 <br> Death Count: 11787","Indiana <br> Death Rate: 147.6 <br> Death Count: 10056","Iowa <br> Death Rate: 110.3 <br> Death Count: 3526","Kansas <br> Death Rate: 129.5 <br> Death Count: 3806","Kentucky <br> Death Rate: 193 <br> Death Count: 8696","Louisiana <br> Death Rate: 149.5 <br> Death Count: 6919","Maine <br> Death Rate: 104.2 <br> Death Count: 1435","Maryland <br> Death Rate: 98.8 <br> Death Count: 6101","Massachusetts <br> Death Rate: 79.8 <br> Death Count: 5579","Michigan <br> Death Rate: 148.9 <br> Death Count: 14945","Minnesota <br> Death Rate: 90.7 <br> Death Count: 5181","Mississippi <br> Death Rate: 200.3 <br> Death Count: 5907","Missouri <br> Death Rate: 145 <br> Death Count: 8945","Montana <br> Death Rate: 164.2 <br> Death Count: 1816","Nebraska <br> Death Rate: 98.7 <br> Death Count: 1939","Nevada <br> Death Rate: 179.4 <br> Death Count: 5645","New Hampshire <br> Death Rate: 87.1 <br> Death Count: 1208","New Jersey <br> Death Rate: 103.6 <br> Death Count: 9605","New Mexico <br> Death Rate: 175 <br> Death Count: 3705","New York <br> Death Rate: 120.2 <br> Death Count: 23860","North Carolina <br> Death Rate: 144.2 <br> Death Count: 15234","North Dakota <br> Death Rate: 120.4 <br> Death Count: 937","Ohio <br> Death Rate: 174.6 <br> Death Count: 20536","Oklahoma <br> Death Rate: 196.7 <br> Death Count: 7850","Oregon <br> Death Rate: 98.4 <br> Death Count: 4190","Pennsylvania <br> Death Rate: 157.9 <br> Death Count: 20546","Rhode Island <br> Death Rate: 111 <br> Death Count: 1218","South Carolina <br> Death Rate: 182.9 <br> Death Count: 9497","South Dakota <br> Death Rate: 110.1 <br> Death Count: 987","Tennessee <br> Death Rate: 196.7 <br> Death Count: 13705","Texas <br> Death Rate: 165.1 <br> Death Count: 48787","Utah <br> Death Rate: 80 <br> Death Count: 2671","Vermont <br> Death Rate: 48.5 <br> Death Count: 314","Virginia <br> Death Rate: 111.7 <br> Death Count: 9668","Washington <br> Death Rate: 79.6 <br> Death Count: 6165","West Virginia <br> Death Rate: 220.4 <br> Death Count: 3936","Wisconsin <br> Death Rate: 103.3 <br> Death Count: 6076","Wyoming <br> Death Rate: 166.2 <br> Death Count: 963"],"zmin":20,"zmax":230,"type":"choropleth","marker":{"line":{"colorbar":{"title":"","ticklen":2},"cmin":48.5,"cmax":220.40000000000001,"colorscale":[["0","rgba(252,251,253,1)"],["0.0416666666666667","rgba(248,246,250,1)"],["0.0833333333333333","rgba(243,242,248,1)"],["0.125","rgba(239,237,245,1)"],["0.166666666666667","rgba(232,231,242,1)"],["0.208333333333333","rgba(225,224,238,1)"],["0.25","rgba(218,218,235,1)"],["0.291666666666667","rgba(208,208,230,1)"],["0.333333333333333","rgba(198,199,225,1)"],["0.375","rgba(188,189,220,1)"],["0.416666666666667","rgba(178,177,213,1)"],["0.458333333333333","rgba(168,166,207,1)"],["0.5","rgba(158,154,200,1)"],["0.541666666666667","rgba(148,144,195,1)"],["0.583333333333333","rgba(138,135,191,1)"],["0.625","rgba(128,125,186,1)"],["0.666666666666667","rgba(121,110,178,1)"],["0.708333333333333","rgba(114,96,171,1)"],["0.75","rgba(106,81,163,1)"],["0.791666666666667","rgba(99,67,156,1)"],["0.833333333333333","rgba(92,54,150,1)"],["0.875","rgba(84,39,143,1)"],["0.916666666666667","rgba(77,28,137,1)"],["0.958333333333333","rgba(70,16,131,1)"],["1","rgba(63,0,125,1)"]],"showscale":false,"color":[192.5,114.40000000000001,193.5,176.19999999999999,123.5,106.8,87,125.90000000000001,105.7,178.09999999999999,160.5,51.399999999999999,146,92.900000000000006,147.59999999999999,110.3,129.5,193,149.5,104.2,98.799999999999997,79.799999999999997,148.90000000000001,90.700000000000003,200.30000000000001,145,164.19999999999999,98.700000000000003,179.40000000000001,87.099999999999994,103.59999999999999,175,120.2,144.19999999999999,120.40000000000001,174.59999999999999,196.69999999999999,98.400000000000006,157.90000000000001,111,182.90000000000001,110.09999999999999,196.69999999999999,165.09999999999999,80,48.5,111.7,79.599999999999994,220.40000000000001,103.3,166.19999999999999]}},"geo":"geo","frame":null}],"highlight":{"on":"plotly_click","persistent":false,"dynamic":false,"selectize":false,"opacityDim":0.20000000000000001,"selected":{"opacity":1},"debounce":0},"shinyEvents":["plotly_hover","plotly_click","plotly_selected","plotly_relayout","plotly_brushed","plotly_brushing","plotly_clickannotation","plotly_doubleclick","plotly_deselect","plotly_afterplot","plotly_sunburstclick"],"base_url":"https://plot.ly"},"evals":[],"jsHooks":[]}</script>
 </div>
 </div>
 <p>In examining the geographical distribution of COVID-19 death rates across the United States in 2020 and 2021, we observe regional variations. During 2020, higher death rates were observed in the Northeastern and Midwestern states, with New Jersey, New York, North Dakota, and South Dakota exhibiting higher figures. This could potentially reflect the initial outbreak hotspots. The Southern states presented varied death rates, generally hovering around an average of 120, while the Western states showed lower death rates.</p>
@@ -824,16 +824,17 @@ pre > code.sourceCode > span > a:first-child::before { text-decoration: underlin
 <summary>Code</summary>
 <div class="sourceCode cell-code" id="cb15"><pre class="sourceCode r code-with-copy"><code class="sourceCode r"><span id="cb15-1"><a href="#cb15-1" aria-hidden="true" tabindex="-1"></a><span class="co"># Create a bar chart, flipping the coordinates for a horizontal chart,</span></span>
 <span id="cb15-2"><a href="#cb15-2" aria-hidden="true" tabindex="-1"></a><span class="co"># and using facets to create separate plots for each age group.</span></span>
-<span id="cb15-3"><a href="#cb15-3" aria-hidden="true" tabindex="-1"></a><span class="fu">ggplot</span>(health_data_age_groups, <span class="fu">aes</span>(<span class="at">x =</span> <span class="fu">reorder</span>(Condition, COVID.<span class="fl">19.</span>Deaths), <span class="at">y =</span> COVID.<span class="fl">19.</span>Deaths, <span class="at">fill =</span> Is_Top_Condition)) <span class="sc">+</span></span>
+<span id="cb15-3"><a href="#cb15-3" aria-hidden="true" tabindex="-1"></a><span class="fu">ggplot</span>(health_data_age_groups, <span class="fu">aes</span>(<span class="at">x =</span> <span class="fu">reorder</span>(Condition, COVID.<span class="fl">19.</span>Deaths), <span class="at">y =</span> COVID.<span class="fl">19.</span>Deaths <span class="sc">/</span> <span class="dv">1000</span>, <span class="at">fill =</span> Is_Top_Condition)) <span class="sc">+</span></span>
 <span id="cb15-4"><a href="#cb15-4" aria-hidden="true" tabindex="-1"></a>  <span class="fu">geom_bar</span>(<span class="at">stat =</span> <span class="st">"identity"</span>, <span class="at">position =</span> <span class="st">"dodge"</span>) <span class="sc">+</span></span>
 <span id="cb15-5"><a href="#cb15-5" aria-hidden="true" tabindex="-1"></a>  <span class="fu">coord_flip</span>() <span class="sc">+</span></span>
 <span id="cb15-6"><a href="#cb15-6" aria-hidden="true" tabindex="-1"></a>  <span class="fu">facet_wrap</span>(<span class="sc">~</span>Age_Group, <span class="at">scales =</span> <span class="st">"free_x"</span>) <span class="sc">+</span></span>
 <span id="cb15-7"><a href="#cb15-7" aria-hidden="true" tabindex="-1"></a>  <span class="fu">scale_fill_manual</span>(<span class="at">values =</span> <span class="fu">c</span>(<span class="st">"Top 5"</span> <span class="ot">=</span> <span class="st">"red3"</span>, <span class="st">"Other"</span> <span class="ot">=</span> <span class="st">"darkgrey"</span>)) <span class="sc">+</span></span>
-<span id="cb15-8"><a href="#cb15-8" aria-hidden="true" tabindex="-1"></a>  <span class="fu">labs</span>(<span class="at">title =</span><span class="st">'Top Comorbidities Associated with COVID-19 Deaths Across Age Groups'</span>,</span>
-<span id="cb15-9"><a href="#cb15-9" aria-hidden="true" tabindex="-1"></a>    <span class="at">x =</span> <span class="st">"Health Conditions"</span>, </span>
-<span id="cb15-10"><a href="#cb15-10" aria-hidden="true" tabindex="-1"></a>    <span class="at">y =</span> <span class="st">"Number of Deaths"</span></span>
-<span id="cb15-11"><a href="#cb15-11" aria-hidden="true" tabindex="-1"></a>  ) <span class="sc">+</span></span>
-<span id="cb15-12"><a href="#cb15-12" aria-hidden="true" tabindex="-1"></a>  <span class="fu">theme_minimal</span>()</span></code><button title="Copy to Clipboard" class="code-copy-button"><i class="bi"></i></button></pre></div>
+<span id="cb15-8"><a href="#cb15-8" aria-hidden="true" tabindex="-1"></a>  <span class="fu">scale_y_continuous</span>(<span class="at">labels =</span> scales<span class="sc">::</span>comma, <span class="at">name =</span> <span class="st">"Number of Deaths (in Thousands)"</span>) <span class="sc">+</span>  <span class="co"># Adjust y-axis labels</span></span>
+<span id="cb15-9"><a href="#cb15-9" aria-hidden="true" tabindex="-1"></a>  <span class="fu">labs</span>(<span class="at">title =</span> <span class="st">'Top Comorbidities Associated with COVID-19 Deaths Across Age Groups'</span>,</span>
+<span id="cb15-10"><a href="#cb15-10" aria-hidden="true" tabindex="-1"></a>       <span class="at">x =</span> <span class="st">"Health Conditions"</span>, </span>
+<span id="cb15-11"><a href="#cb15-11" aria-hidden="true" tabindex="-1"></a>       <span class="at">y =</span> <span class="st">"Number of Deaths (in Thousands)"</span></span>
+<span id="cb15-12"><a href="#cb15-12" aria-hidden="true" tabindex="-1"></a>  ) <span class="sc">+</span></span>
+<span id="cb15-13"><a href="#cb15-13" aria-hidden="true" tabindex="-1"></a>  <span class="fu">theme_minimal</span>()</span></code><button title="Copy to Clipboard" class="code-copy-button"><i class="bi"></i></button></pre></div>
 </details>
 <div class="cell-output-display">
 <p><img src="results_files/figure-html/unnamed-chunk-14-1.png" class="img-fluid" width="960"></p>

diff --git a/docs/conclusion.html b/docs/conclusion.html
@@ -181,7 +181,7 @@ ul.task-list li input[type="checkbox"] {
 <li><p>Vaccine Impact Study: A study on the impact of vaccination on mortality rates, especially among older groups, could offer more insights for future public health initiatives.</p></li>
 </ol>
 <p><strong>Lessons Learned</strong></p>
-<p>Throughout this exploration, we learned about the many contributors to COVID-19 death rate, namely age, geographical location, and conditions, and the interesting interaction effects between them, for example the prevalence of diabetes in young age groups.</p>
+<p>Throughout this exploration, we learned about the many contributors to COVID-19 death rate, namely age, geographical location, and conditions, and the interesting interaction effects between them, for example the prevalence of obesity in young age groups.</p>
 <p>This exploration also unravelled patterns that we’ve never dwelt on before aobut COVID-19. For example, it seems reasonable to assume that COVID-19 will be more prevalent in states with a higher population density like New York, especially in the year when COVID-19 first broke out. Yet interestingly in 2021, the pattern of state-wise COVID-19 death features a shift between Northern and Southern states, where Northern states generally improve while Southern state aggravates. Whether this phenomenon is due to any shared public health practices and community awareness in Northern or Sourthern states requires future analysis.</p>
 <p>It is interesting how the COVID-19 death counts of most conditions are positively correlated through time, suggesting the presence of comorbidity, which will be interesting for future analysis.</p>
 <p>Last but not least, we learned about how different visualization graphs can aid with analysis and interpretation of the topic in different ways. For example, time series line chart is adept at showing macroscopic trends, while interactive D3 graphs can depict the microscopic changes between 2 time periods with the aid of animation.</p>
